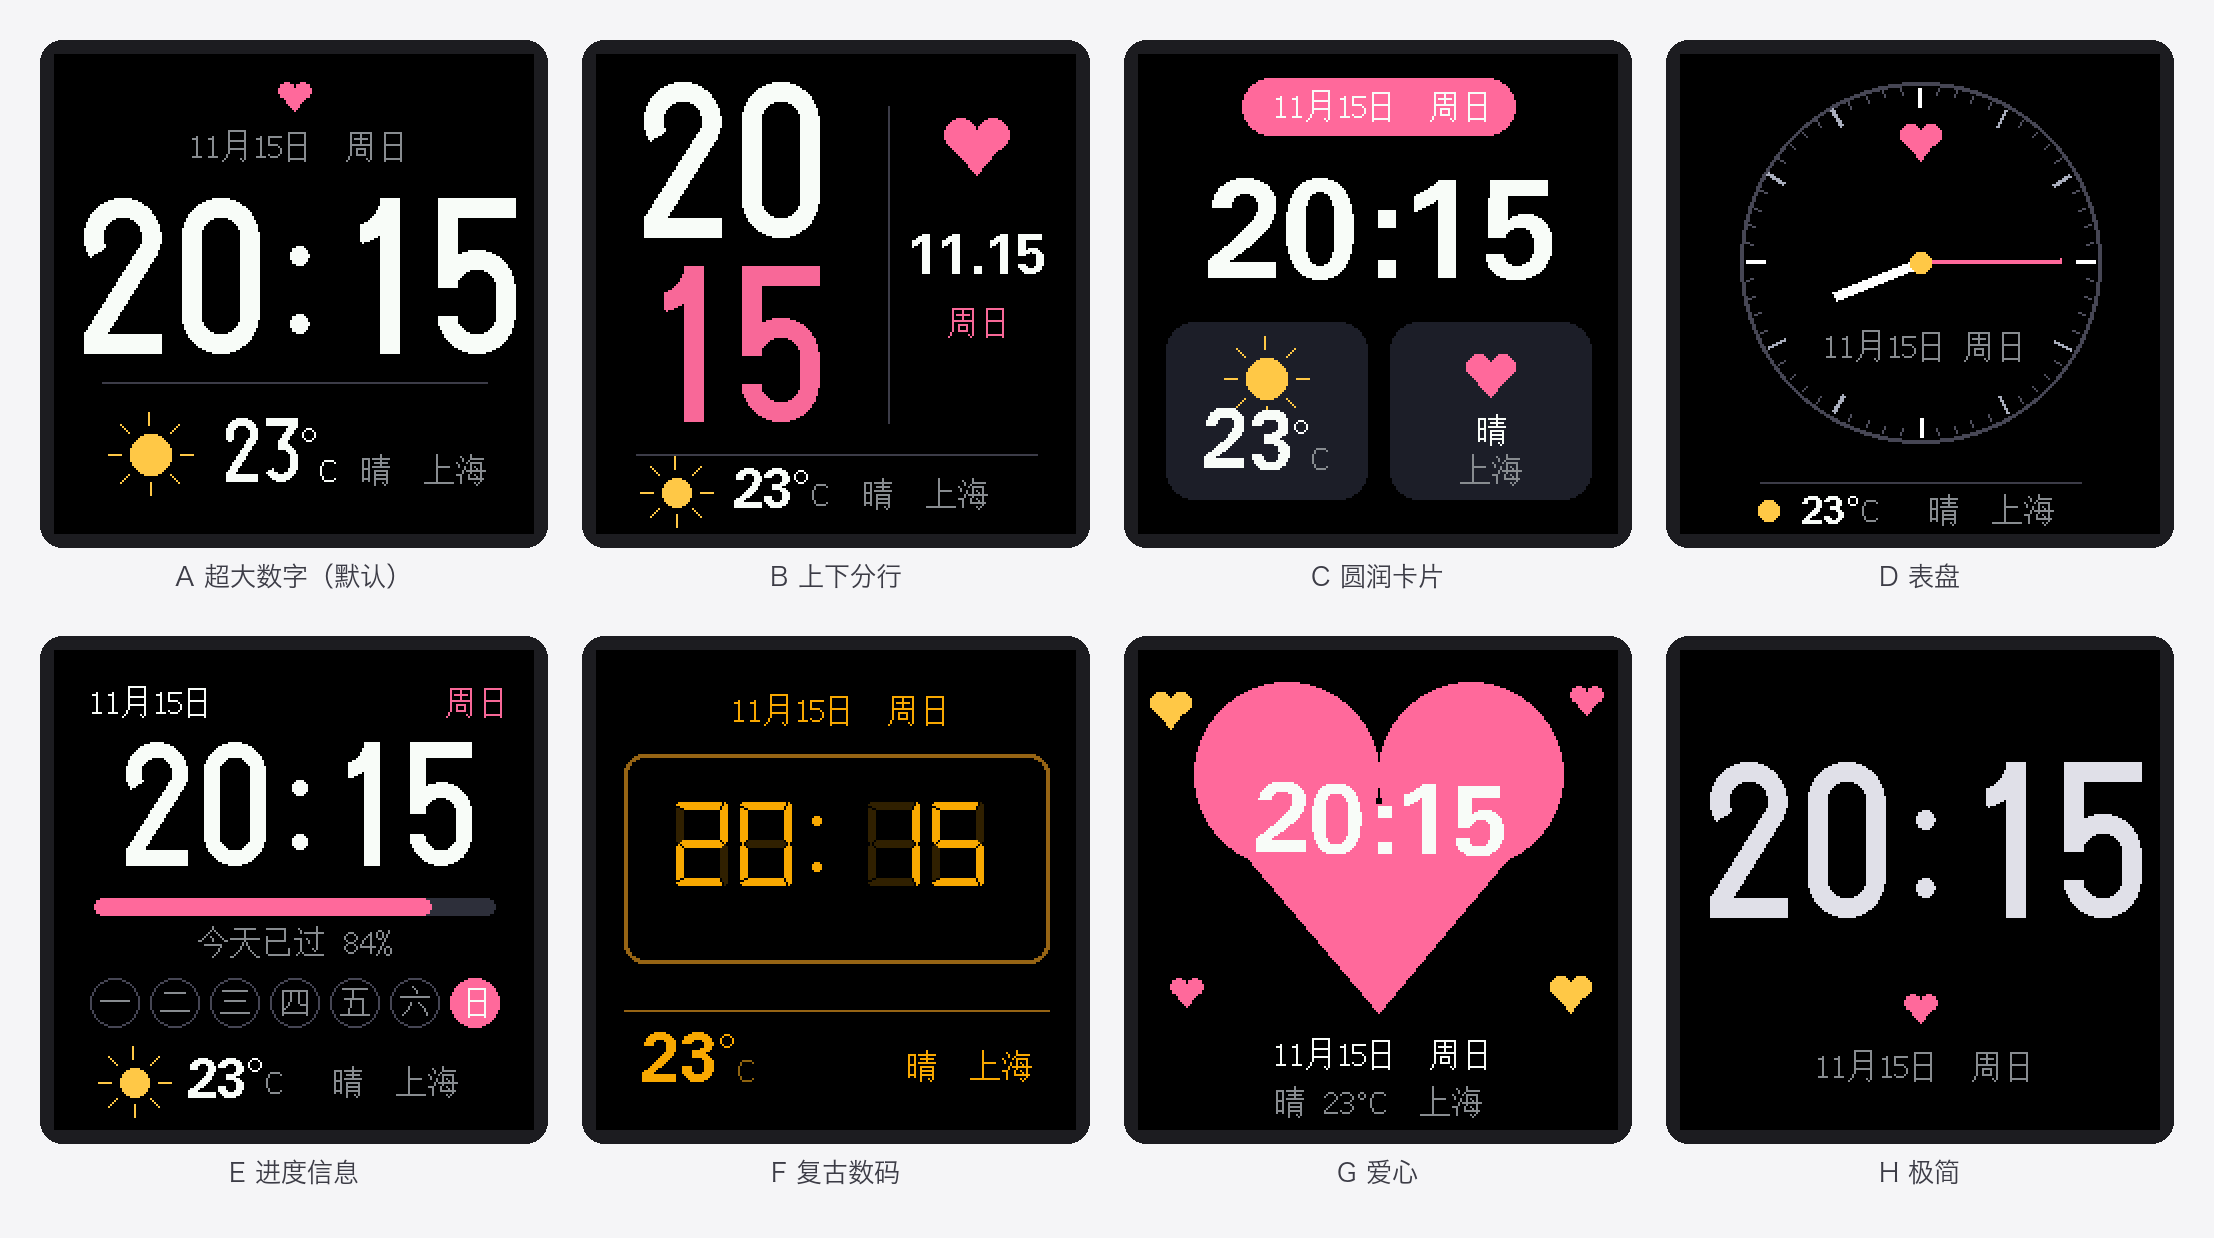
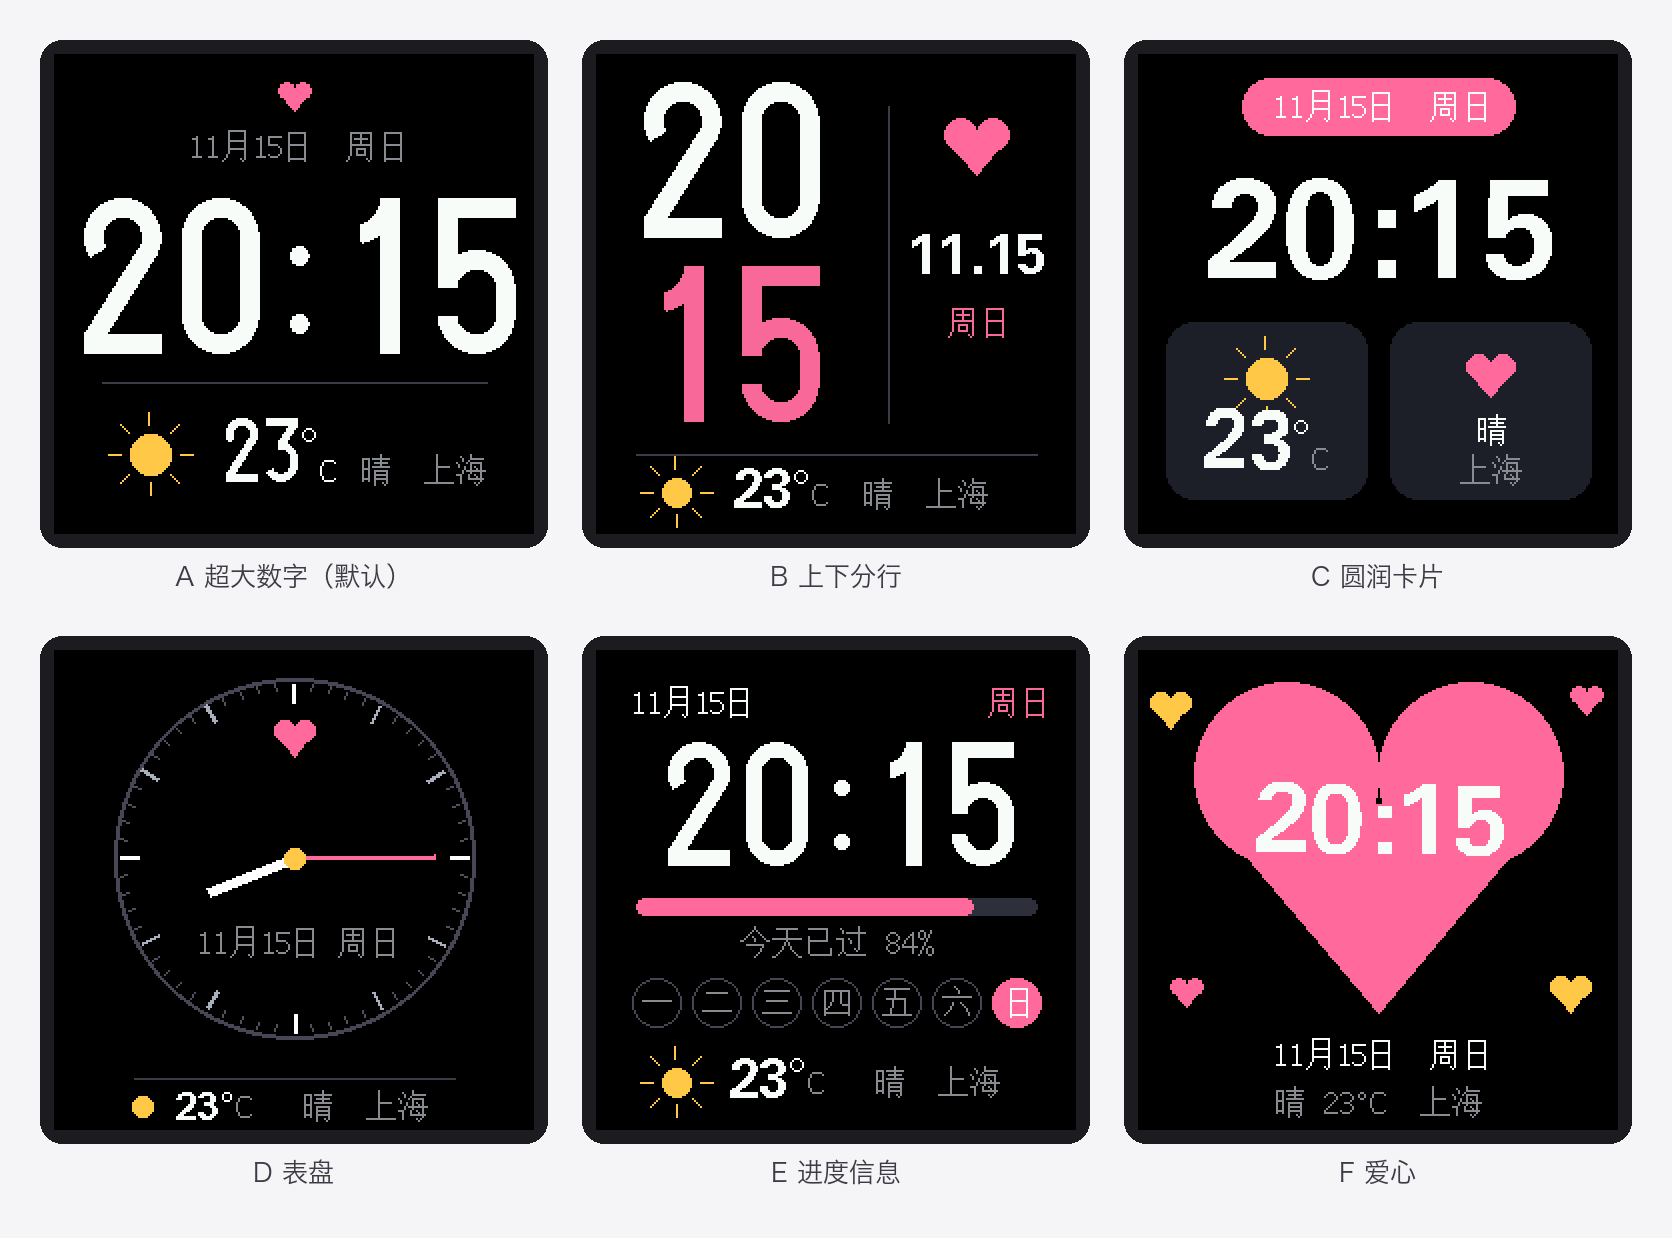
Clock page: drop the retro and minimal styles, keep 6

diff --git a/web_page.h b/web_page.h
@@ -151,10 +151,10 @@ async function status(){
 }
 
 // ---- 加载与渲染 ----
-const STY=[['超大数字','Big digits'],['上下分行','Stacked'],['圆润卡片','Cards'],['表盘','Dial'],['进度信息','Progress'],['复古数码','Retro LCD'],['爱心','Heart'],['极简','Minimal']];
[1 lines of base64/hex data omitted]
+const STY=[['超大数字','Big digits'],['上下分行','Stacked'],['圆润卡片','Cards'],['表盘','Dial'],['进度信息','Progress'],['爱心','Heart']];
[1 lines of base64/hex data omitted]
 function renderSty(){
-  $('#sty').innerHTML=STY.map((s,i)=>`<div data-i="${i}" class="${(C.cs|0)===i?'on':''}"><img src="${STYIMG[i]}" alt="">${'ABCDEFGH'[i]} ${L(s[0],s[1])}</div>`).join('');
+  $('#sty').innerHTML=STY.map((s,i)=>`<div data-i="${i}" class="${(C.cs|0)===i?'on':''}"><img src="${STYIMG[i]}" alt="">${'ABCDEF'[i]} ${L(s[0],s[1])}</div>`).join('');
   $('#sty').querySelectorAll('div').forEach(d=>d.onclick=()=>{C.cs=+d.dataset.i;renderSty()});
 }
 async function load(){

diff --git a/display.h b/display.h
@@ -282,9 +282,9 @@ uint8_t nextPage(uint8_t p) {
 const char* dayUnit(long n) { return EN() ? (n == 1 ? "day" : "days") : "天"; }
 int unitW(const char* u) { return EN() ? txtW(u, F_CN) * 2 : 32; }
 
-// ================= 时钟页：8 种样式（cfg.clockStyle：0=A 默认）=================
-// 0 A 超大数字  1 B 上下分行  2 C 圆润卡片  3 D 表盘  4 E 进度信息  5 F 复古数码  6 G 爱心  7 H 极简
-#define CLOCK_STYLES 8
+// ================= 时钟页：6 种样式（cfg.clockStyle：0=A 默认）=================
+// 0 A 超大数字  1 B 上下分行  2 C 圆润卡片  3 D 表盘  4 E 进度信息  5 F 爱心
+#define CLOCK_STYLES 6
 #define F_L62  u8g2_font_logisoso62_tn
 #define F_FUB49 u8g2_font_fub49_tn
 #define F_FUB35 u8g2_font_fub35_tf
@@ -292,10 +292,8 @@ int unitW(const char* u) { return EN() ? txtW(u, F_CN) * 2 : 32; }
 #define F_FUB25 u8g2_font_fub25_tf
 #define F_FUB20 u8g2_font_fub20_tf
 #define F_FUB14 u8g2_font_fub14_tf
-#define F_SEG  u8g2_font_7Segments_26x42_mn
 
 const uint16_t COL_LINE = C565(60, 60, 72), COL_CARD = C565(28, 30, 40);
-const uint16_t COL_AMB = C565(255, 170, 0), COL_AMB_D = C565(52, 34, 0), COL_AMB_L = C565(150, 100, 20);
 
 // 透明背景写字（putTxt 是实心背景，卡片和爱心上要用这个）
 void tt(const char* s, int x, int y, uint16_t col, const uint8_t* font) {
@@ -406,18 +404,9 @@ void clockDynamic(uint8_t st) {
       snprintf(b, sizeof b, EN() ? "Today %d%%" : "今天已过 %d%%", pct);
       ttC(b, 152, COL_DIM, F_CN);
       break; }
-    case 5: { // F 复古数码：先画满笔画的暗色 88:88，再叠上亮色的时间
-      int w = txtW("88:88", F_SEG);
-      tt("88:88", 120 - w / 2, 118, COL_AMB_D, F_SEG);
-      clockTimeStr(b, col, COL_AMB); tt(b, 120 - w / 2, 118, col == COL_DIM ? COL_AMB_L : col, F_SEG);
-      break; }
-    case 6:   // G 爱心
+    case 5:   // F 爱心
       tft.fillRect(62, 76, 116, 30, COL_PINK);
       clockTimeStr(b, col, COL_FG); ttC(b, 102, col, F_FUB35);
-      break;
-    case 7:   // H 极简
-      tft.fillRect(0, 50, 240, 90, COL_BG);
-      clockTimeStr(b, col, C565(225, 225, 232)); ttC(b, 134, col, F_HUGE);
       break;
     default:  // A 超大数字
       tft.fillRect(0, 64, 240, 92, COL_BG);
@@ -492,16 +481,7 @@ void drawClockStatic(uint8_t st) {
         wxCondLine(b, sizeof b); tt(b, x + 8, 222, COL_DIM, F_CN);
       } else wxLoading(220);
       break; }
-    case 5: { // F
-      tft.drawRoundRect(14, 52, 212, 104, 10, COL_AMB_L); tft.drawRoundRect(15, 53, 210, 102, 9, COL_AMB_L);
-      dateFull(b, sizeof b); ttC(b, 36, COL_AMB, F_CN);
-      tft.drawFastHLine(14, 180, 212, COL_AMB_L);
-      if (wx.ok) {
-        drawTemp(22, 216, COL_AMB, COL_AMB_L, F_FUB25);
-        wxCondLine(b, sizeof b); tt(b, 218 - txtW(b, F_CN), 214, COL_AMB, F_CN);
-      } else ttC(TR("天气获取中…", "Loading weather..."), 210, COL_AMB_L, F_CN);
-      break; }
-    case 6: { // G
+    case 5: { // F 爱心
       drawHeart(120, 62, 46, COL_PINK);
       drawHeart(16, 26, 5, COL_GOLD); drawHeart(224, 22, 4, COL_PINK); drawHeart(216, 168, 5, COL_GOLD); drawHeart(24, 168, 4, COL_PINK);
       dateFull(b, sizeof b); ttC(b, 208, COL_FG, F_CN);
@@ -511,10 +491,6 @@ void drawClockStatic(uint8_t st) {
         ttC(b, 232, COL_DIM, F_CN);
       } else wxLoading(232);
       break; }
-    case 7:   // H
-      drawHeart(120, 176, 4, COL_PINK);
-      dateFull(b, sizeof b); ttC(b, 214, COL_DIM, F_CN);
-      break;
     default: { // A
       drawHeart(120, 18, 4, COL_PINK);
       dateFull(b, sizeof b); ttC(b, 52, COL_DIM, F_CN);

diff --git a/config_store.h b/config_store.h
@@ -17,7 +17,7 @@ struct Config {
   uint8_t slideSec = 8;                          // 每页停留秒数
   uint8_t nightStart = 22, nightEnd = 7;         // 夜间时段
   uint8_t bright = 100, nightBright = 10;        // 亮度百分比
-  uint8_t clockStyle = 0;                        // 时钟页样式 0..7，0=超大数字（默认）
+  uint8_t clockStyle = 0;                        // 时钟页样式 0..5，0=超大数字（默认）
   uint8_t lang = 0;                              // 0=中文 1=English，屏幕和网页共用
   char  pass[16] = "";                           // 设置页密码，空表示不设
   char  testDate[11] = "";                       // 测试用：假装今天是这一天
@@ -84,7 +84,7 @@ void applyJson(JsonObject o) {
   if (o.containsKey("nightEnd")) cfg.nightEnd = constrain((int)(o["nightEnd"] | 7), 0, 23);
   if (o.containsKey("bright")) cfg.bright = constrain((int)(o["bright"] | 100), 5, 100);
   if (o.containsKey("nightBright")) cfg.nightBright = constrain((int)(o["nightBright"] | 10), 0, 100);
-  if (o.containsKey("cs")) cfg.clockStyle = constrain((int)(o["cs"] | 0), 0, 7);
+  if (o.containsKey("cs")) cfg.clockStyle = constrain((int)(o["cs"] | 0), 0, 5);
   if (o.containsKey("lang")) cfg.lang = constrain((int)(o["lang"] | 0), 0, 1);
   if (o.containsKey("pass")) safeCopy(cfg.pass, sizeof cfg.pass, o["pass"] | "");
   if (o.containsKey("newPass")) safeCopy(cfg.pass, sizeof cfg.pass, o["newPass"] | "");

diff --git a/README.md b/README.md
@@ -22,7 +22,7 @@
 
 | 页面 | 内容 |
 |---|---|
-| 时钟 | 时间、日期、星期、天气图标、温度（Open-Meteo，免注册）。有 8 种样式可选，见下 |
+| 时钟 | 时间、日期、星期、天气图标、温度（Open-Meteo，免注册）。有 6 种样式可选，见下 |
 | 在一起 | "我们在一起 N 天"，下面是几年几个月几天 |
 | 倒数日 | 最近的纪念日，大字显示还有多少天，带进度条，并预告下一个 |
 | 照片 | 随机显示你上传的照片，可带一行小字 |
@@ -40,9 +40,9 @@
 
 ### 时钟页样式
 
-时钟页有 8 种样式，在设置页 **显示** 标签顶部点选，保存后立即生效，默认是 A。
+时钟页有 6 种样式，在设置页 **显示** 标签顶部点选，保存后立即生效，默认是 A。
 
-![时钟页 8 种样式](docs/clock_styles.png)
+![时钟页 6 种样式](docs/clock_styles.png)
 
 > 图为按固件同样的字库和坐标渲染的预览，天气和时间是演示数据。
 
